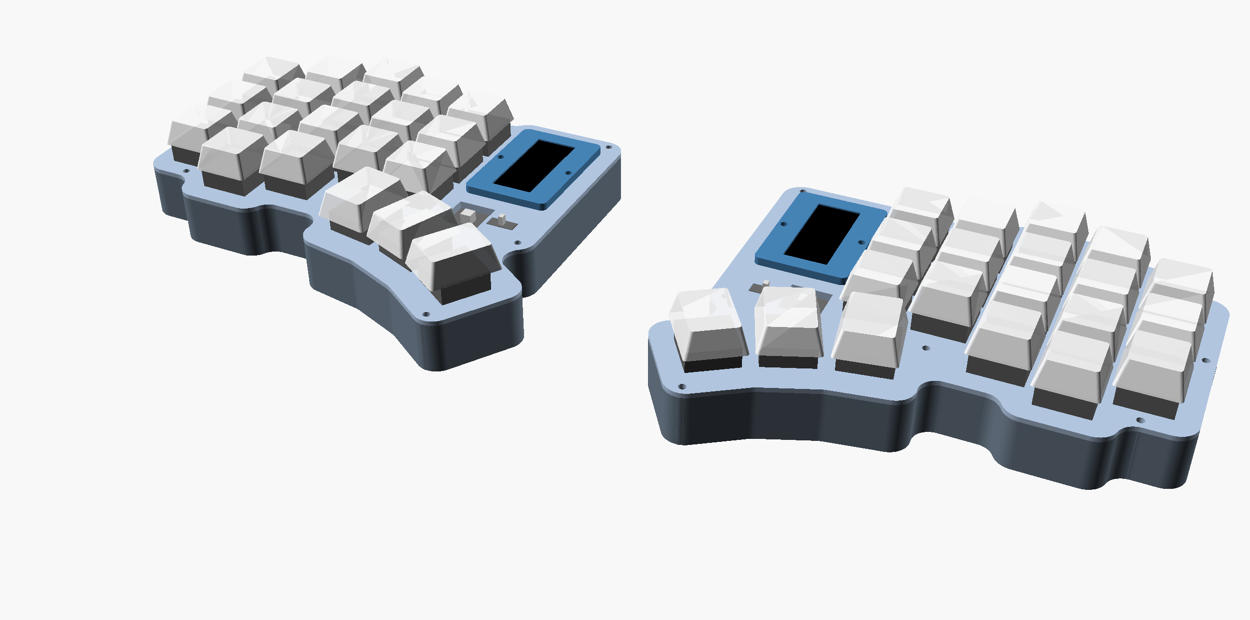
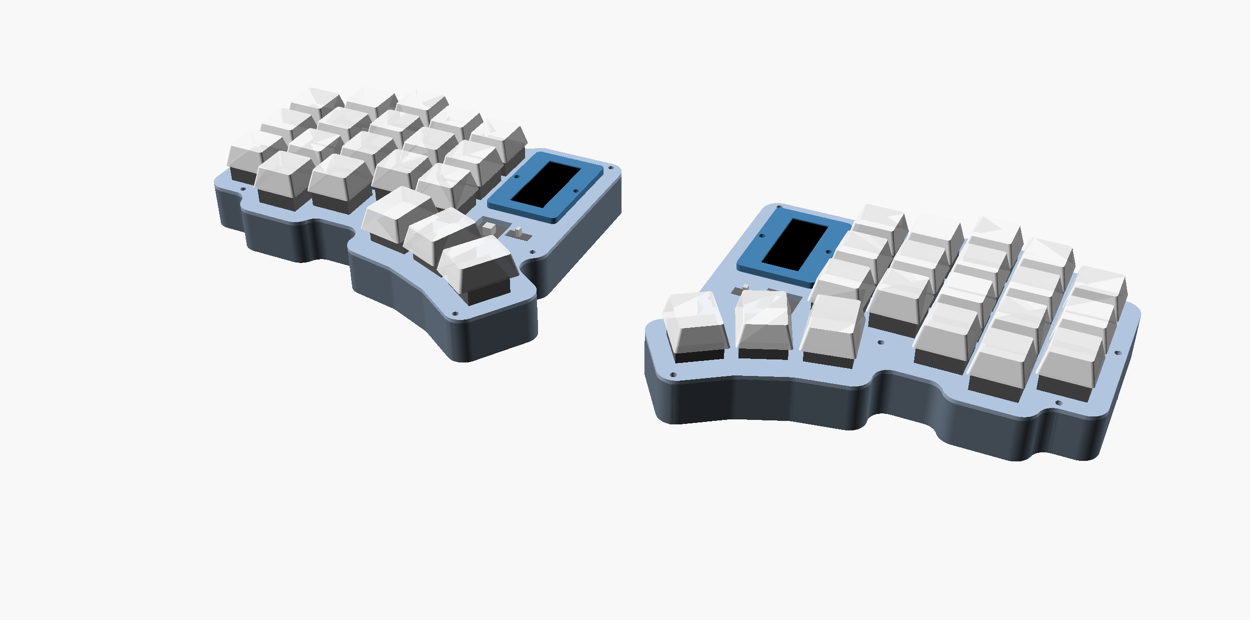
README: show the 6-column and minimal builds beside the default
Three renders at the top instead of one, all at the same camera and scale so
the footprints compare directly: the default 5col + 2 extra with the display
(20 keys/half, 145 x 120), the 6-column version (23 keys/half, 164 x 120),
and the minimal 5col with no extras and no display (18 keys/half, 145 x 120).

The pair of 145 x 120 figures is the point: with the display stacked over the
nano, a build with a nice!view is exactly as wide as one without.

Claude-Session: https://claude.ai/code/session_01BC8SMH5i2ZF6J7YagrN8cV

Changed region(s): [[0.4992, 0.3065, 0.9984, 0.7968], [0.1248, 0.0919, 0.4992, 0.6129]]

diff --git a/README.md b/README.md
@@ -10,8 +10,19 @@ nRF52840, Kailh hot-swap sockets on Amoeba-King single-key PCBs, and ZMK.
 
 ![Pacino — 5 columns + 2 extra keys, nice!view version](docs/pacino.png)
 
-*The 5-column + 2-extra-keys build with the nice!view display. Renders of every other combination
-are [at the bottom](#variant-gallery).*
+*20 keys per half (40 total): 5 columns + 2 extra keys, with the nice!view display. 145 × 120 mm.*
+
+![Pacino — 6 columns + 2 extra keys, nice!view version](docs/pacino_6col.png)
+
+*23 keys per half (46 total): the optional 6th outer column, same display. 164 × 120 mm.*
+
+![Pacino — 5 columns, no extras, no display](docs/pacino_minimal.png)
+
+*The minimal build — 18 keys per half (36 total), no extra keys, no display. 145 × 120 mm.*
+
+All three are the same scale. The display costs no width: stacked over the nano, a build with it is
+exactly as wide as one without. Renders of every other combination are
+[at the bottom](#variant-gallery).
 
 **The default design:** a cheapino-style 3×5 (+2) + 3-thumb column-stagger layout on a clean
 19.05 mm **MX** grid with **1.25u thumbs**, an **electronics bay** beside the inner column that
